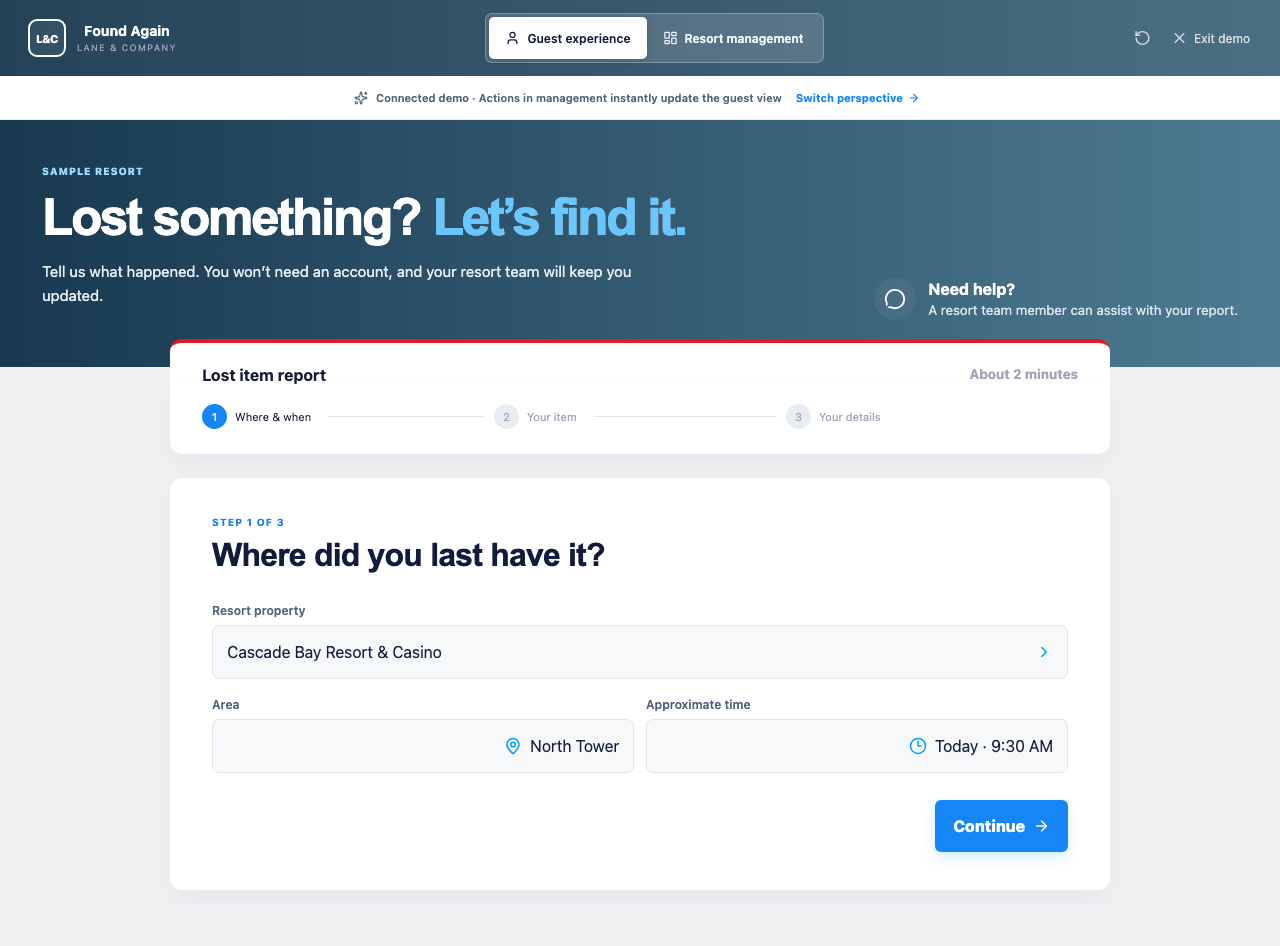
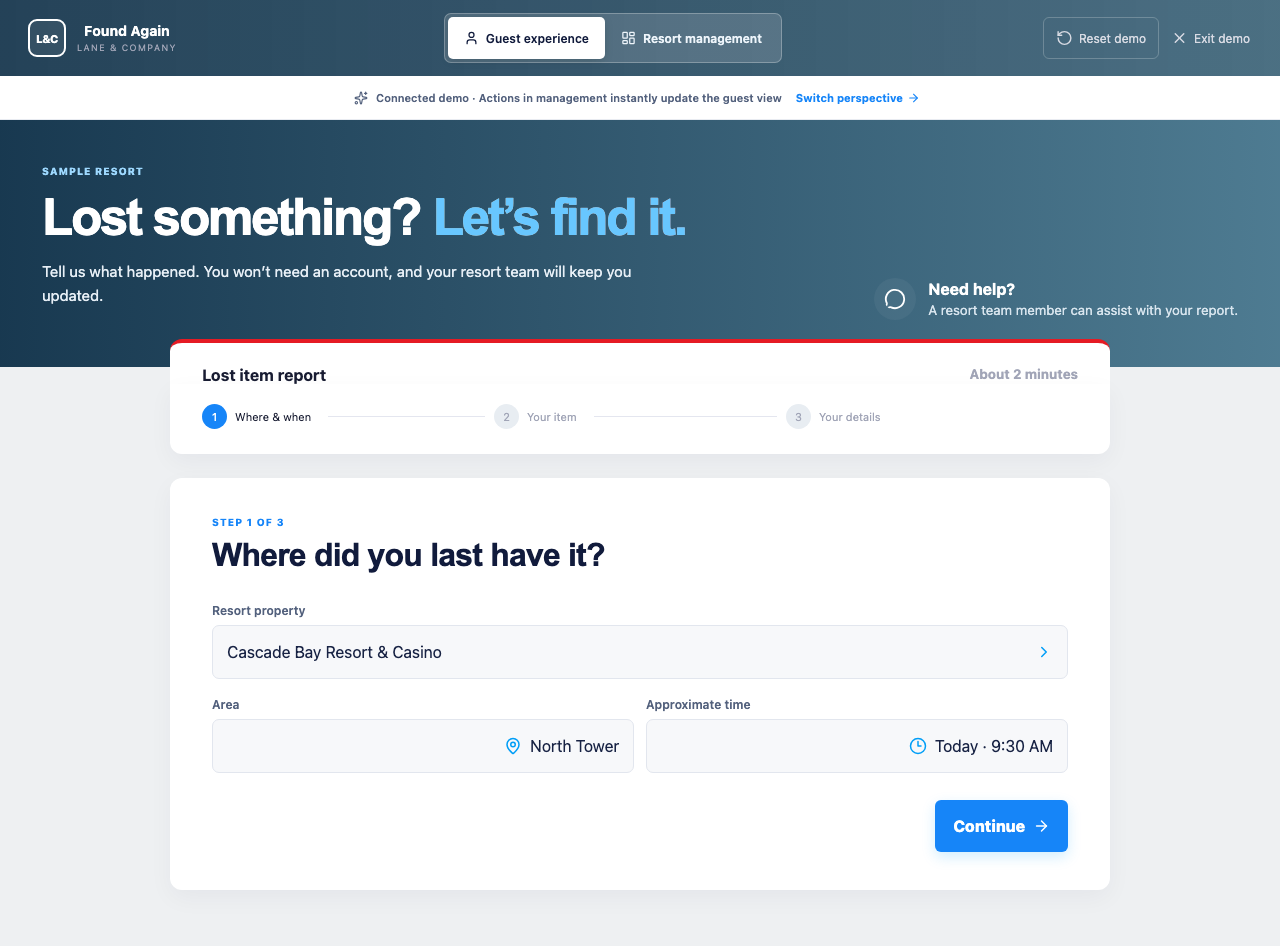
Build inventory and custody demo workflows

Changed region(s): [[0.3438, 0.0, 0.6562, 0.0613], [0.8125, 0.0307, 0.9062, 0.0613]]

diff --git a/src/DemoApp.tsx b/src/DemoApp.tsx
@@ -4,19 +4,23 @@ import {
   ArrowRight,
   Bell,
   Box,
+  Camera,
   Check,
   ChevronRight,
   ClipboardCheck,
   Clock3,
   FileSearch,
+  Filter,
   LayoutDashboard,
   MapPin,
   MessageCircle,
   PackageCheck,
+  Plus,
   RotateCcw,
   Search,
   ShieldCheck,
   Sparkles,
+  Tag,
   Truck,
   User,
   UserCheck,
@@ -55,6 +59,7 @@ export function DemoApp({
     "pickup" | "authorized" | "shipping" | null
   >(null);
   const [toast, setToast] = useState("");
+  const [confirmReset, setConfirmReset] = useState(false);
   useEffect(() => {
     const saved = localStorage.getItem("found-again-demo");
     if (saved)
@@ -85,6 +90,8 @@ export function DemoApp({
     setReturnMethod(null);
     setGuestStep(0);
     localStorage.removeItem("found-again-demo");
+    setRole("guest");
+    setConfirmReset(false);
     notify("Demo reset to the beginning");
   };
   return (
@@ -112,8 +119,9 @@ export function DemoApp({
           </button>
         </div>
         <div className="demoTools">
-          <button onClick={reset} title="Reset demo">
+          <button className="resetButton" onClick={() => setConfirmReset(true)} title="Reset demo">
             <RotateCcw />
+            <span>Reset demo</span>
           </button>
           <button onClick={close}>
             <X />
@@ -156,6 +164,19 @@ export function DemoApp({
       {toast && (
         <div className="demoToast">
           <Check /> {toast}
+        </div>
+      )}
+      {confirmReset && (
+        <div className="demoModalBackdrop" role="presentation" onClick={() => setConfirmReset(false)}>
+          <div className="demoModal resetModal" role="dialog" aria-modal="true" aria-labelledby="reset-title" onClick={(e) => e.stopPropagation()}>
+            <span className="modalIcon"><RotateCcw /></span>
+            <h2 id="reset-title">Reset the connected demo?</h2>
+            <p>This clears the guest report, investigation, return choice, and demo inventory changes so you can replay everything from the beginning.</p>
+            <div className="modalActions">
+              <button className="secondaryButton" onClick={() => setConfirmReset(false)}>Keep exploring</button>
+              <button className="dangerButton" onClick={reset}>Reset demo</button>
+            </div>
+          </div>
         </div>
       )}
     </div>
@@ -407,7 +428,8 @@ function ManagementView({
   returnMethod: string | null;
   advance: (s: Stage, m: string) => void;
 }) {
-  const [view, setView] = useState<"queue" | "case">(
+  type ManagementPage = "queue" | "case" | "inventory" | "custody";
+  const [view, setView] = useState<ManagementPage>(
     stage === "reported" ? "queue" : "case",
   );
   useEffect(() => {
@@ -424,13 +446,13 @@ function ManagementView({
           {[
             ["queue", LayoutDashboard, "Command center"],
             ["case", FileSearch, "Cases"],
-            ["", Box, "Found inventory"],
-            ["", ClipboardCheck, "Custody log"],
+            ["inventory", Box, "Found inventory"],
+            ["custody", ClipboardCheck, "Custody log"],
           ].map(([id, Icon, label]) => (
             <button
               key={label as string}
               className={view === id ? "active" : ""}
-              onClick={() => id && setView(id as "queue" | "case")}
+              onClick={() => id && setView(id as ManagementPage)}
             >
               <Icon /> {label as string}
               {label === "Command center" && <i>3</i>}
@@ -451,7 +473,7 @@ function ManagementView({
             <p className="mini">
               Lost &amp; Found Operations · Thursday, August 20
             </p>
-            <h1>{view === "queue" ? "Command center" : "Case FA-84219"}</h1>
+            <h1>{view === "queue" ? "Command center" : view === "case" ? "Case FA-84219" : view === "inventory" ? "Found inventory" : "Custody log"}</h1>
           </div>
           <div className="search">
             <Search /> Search cases &amp; inventory
@@ -460,16 +482,99 @@ function ManagementView({
         </div>
         {view === "queue" ? (
           <Queue stage={stage} open={() => setView("case")} />
-        ) : (
+        ) : view === "case" ? (
           <CaseDetail
             stage={stage}
             returnMethod={returnMethod}
             advance={advance}
           />
+        ) : view === "inventory" ? (
+          <FoundInventory stage={stage} />
+        ) : (
+          <CustodyLog stage={stage} />
         )}
       </main>
     </div>
   );
+}
+
+const inventorySeed = [
+  { id: "FI-20847", icon: "🕶", name: "Round sunglasses, tortoise arms", category: "Eyewear", found: "Room 1428 · North Tower", storage: "Vault B · Bin 17", time: "Today · 10:42 AM", status: "Suggested match" },
+  { id: "FI-20846", icon: "📱", name: "Black smartphone with clear case", category: "Electronics", found: "Grand Ballroom", storage: "Vault A · Drawer 4", time: "Today · 9:18 AM", status: "Unmatched" },
+  { id: "FI-20831", icon: "👜", name: "Coral evening bag", category: "Bags", found: "Luna Restaurant", storage: "Vault B · Bin 9", time: "Yesterday · 11:06 PM", status: "Awaiting owner" },
+  { id: "FI-20822", icon: "💳", name: "Washington driver license", category: "Identification", found: "Casino floor · Zone C", storage: "Security safe · ID 6", time: "Yesterday · 8:31 PM", status: "Owner contacted" },
+  { id: "FI-20798", icon: "⌚", name: "Silver fitness watch", category: "Electronics", found: "Pool cabana 12", storage: "Vault A · Drawer 2", time: "Aug 18 · 4:14 PM", status: "Unmatched" },
+];
+
+function FoundInventory({ stage }: { stage: Stage }) {
+  const [query, setQuery] = useState("");
+  const [status, setStatus] = useState("All statuses");
+  const [selected, setSelected] = useState(inventorySeed[0]);
+  const [showIntake, setShowIntake] = useState(false);
+  const [saved, setSaved] = useState(false);
+  const items = inventorySeed.filter((item) =>
+    `${item.id} ${item.name} ${item.category} ${item.found}`.toLowerCase().includes(query.toLowerCase()) &&
+    (status === "All statuses" || item.status === status),
+  );
+  const selectedStatus = selected.id === "FI-20847" && stage !== "reported" ? stageLabels[stage] : selected.status;
+  return (
+    <div className="inventoryPage">
+      <div className="pageActions">
+        <div><h2>Everything found, secured, and searchable</h2><p>Inventory across hotel, casino, restaurants, events, and resort grounds.</p></div>
+        <button className="mgmtPrimary compact" onClick={() => setShowIntake(true)}><Plus /> Add found item</button>
+      </div>
+      <div className="inventoryMetrics">
+        <article><Box /><span><strong>147</strong><small>Items in custody</small></span></article>
+        <article><Sparkles /><span><strong>8</strong><small>Suggested matches</small></span></article>
+        <article><Clock3 /><span><strong>12</strong><small>Aging this week</small></span></article>
+      </div>
+      <div className="inventoryLayout">
+        <section className="inventoryTableCard">
+          <div className="tableTools">
+            <label><Search /><input aria-label="Search found inventory" value={query} onChange={(e) => setQuery(e.target.value)} placeholder="Search item, ID, or location" /></label>
+            <label className="filterSelect"><Filter /><select aria-label="Filter inventory status" value={status} onChange={(e) => setStatus(e.target.value)}><option>All statuses</option><option>Unmatched</option><option>Suggested match</option><option>Awaiting owner</option><option>Owner contacted</option></select></label>
+          </div>
+          <div className="inventoryTableHead"><span>Found item</span><span>Found / storage</span><span>Status</span></div>
+          <div className="inventoryRows">
+            {items.map((item) => (
+              <button key={item.id} className={selected.id === item.id ? "selected" : ""} onClick={() => setSelected(item)}>
+                <span className="inventoryIdentity"><i>{item.icon}</i><span><b>{item.name}</b><small>{item.id} · {item.category}</small></span></span>
+                <span className="inventoryLocation"><b>{item.found}</b><small>{item.storage} · {item.time}</small></span>
+                <span className={`inventoryStatus ${item.status.toLowerCase().replaceAll(" ", "-")}`}>{item.id === "FI-20847" && stage !== "reported" ? stageLabels[stage] : item.status}</span>
+                <ChevronRight />
+              </button>
+            ))}
+            {!items.length && <p className="emptyState">No inventory matches those filters.</p>}
+          </div>
+        </section>
+        <aside className="inventoryDetail">
+          <div className="detailPhoto"><span>{selected.icon}</span><small>Item photo · 1 of 2</small></div>
+          <p className="mini">{selected.id} · {selected.category}</p>
+          <h3>{selected.name}</h3>
+          <span className={`inventoryStatus ${selectedStatus.toLowerCase().replaceAll(" ", "-")}`}>{selectedStatus}</span>
+          <dl><div><dt>Found</dt><dd>{selected.found}<small>{selected.time}</small></dd></div><div><dt>Secured in</dt><dd>{selected.storage}</dd></div><div><dt>Logged by</dt><dd>Jordan Kim · EVS</dd></div></dl>
+          {selected.id === "FI-20847" && <div className="matchCallout"><Sparkles /><span><b>92% match with FA-84219</b><small>Exact room, time proximity, item details, and private ownership clue.</small></span></div>}
+          <button className="secondaryButton full"><Tag /> Print custody label</button>
+        </aside>
+      </div>
+      {showIntake && <div className="demoModalBackdrop"><div className="demoModal intakeModal" role="dialog" aria-modal="true" aria-labelledby="intake-title"><div className="modalHeader"><div><p className="mini">Mobile-ready intake</p><h2 id="intake-title">Add a found item</h2></div><button aria-label="Close intake" onClick={() => {setShowIntake(false);setSaved(false)}}><X /></button></div>{saved ? <div className="intakeSuccess"><span><Check /></span><h3>Item FI-20848 logged</h3><p>A custody label was created and Security was notified to secure the item in Vault B.</p><button className="mgmtPrimary compact" onClick={() => {setShowIntake(false);setSaved(false)}}>View inventory</button></div> : <><button className="cameraCapture"><Camera /><b>Take item photos</b><small>Use this phone’s camera or upload images</small></button><div className="intakeGrid"><label>Item category<div className="demoInput">Electronics</div></label><label>Found location<div className="demoInput">Casino floor · Zone B</div></label></div><label>Description<div className="demoInput">White wireless earbuds in charging case</div></label><label>Secure storage<div className="demoInput">Vault B · Intake shelf</div></label><div className="modalActions"><button className="secondaryButton" onClick={() => setShowIntake(false)}>Cancel</button><button className="mgmtPrimary compact" onClick={() => setSaved(true)}>Save & create label <ArrowRight /></button></div></>}</div></div>}
+    </div>
+  );
+}
+
+function CustodyLog({ stage }: { stage: Stage }) {
+  const [item, setItem] = useState("FI-20847");
+  const events = [
+    { time: stage === "reunited" ? "Today · 12:24 PM" : "Pending", title: stage === "reunited" ? "Released to carrier" : "Return handoff pending", person: stage === "reunited" ? "Alex Diaz → UPS 1Z84•••219" : "Awaiting guest return selection", place: "Security desk", done: stage === "reunited" },
+    { time: "Today · 10:49 AM", title: "Secured in controlled storage", person: "Alex Diaz · Security Manager", place: "Vault B · Bin 17", done: true },
+    { time: "Today · 10:44 AM", title: "Transferred to Security", person: "Jordan Kim → Alex Diaz", place: "North Tower service desk", done: true },
+    { time: "Today · 10:42 AM", title: "Found and inventoried", person: "Jordan Kim · EVS", place: "Room 1428 · Nightstand", done: true },
+  ];
+  return <div className="custodyPage">
+    <div className="pageActions"><div><h2>Every handoff has a receipt</h2><p>A tamper-evident audit trail from discovery through verified return or disposition.</p></div><button className="secondaryButton"><ShieldCheck /> Export audit report</button></div>
+    <div className="custodyToolbar"><label><Search /><input aria-label="Search custody log" placeholder="Search item, employee, location, or receipt" /></label><label><Filter /><select aria-label="Choose custody item" value={item} onChange={(e) => setItem(e.target.value)}><option value="FI-20847">FI-20847 · Round sunglasses</option><option value="FI-20846">FI-20846 · Black smartphone</option><option value="FI-20831">FI-20831 · Coral evening bag</option></select></label></div>
+    {item === "FI-20847" ? <div className="custodyLayout"><section className="custodyTimelineCard"><div className="custodyItemHead"><span>🕶</span><div><p className="mini">FI-20847 · Linked case FA-84219</p><h3>Round sunglasses, tortoise arms</h3><small>Current custodian: Alex Diaz · Security</small></div><span className="verifiedBadge"><ShieldCheck /> Verified trail</span></div><div className="auditTimeline">{events.map((event, index) => <article key={event.title} className={event.done ? "done" : "pending"}><i>{event.done ? <Check /> : <Clock3 />}</i><div><small>{event.time}</small><h4>{event.title}</h4><p>{event.person}</p><span><MapPin /> {event.place}</span></div>{event.done && index < 3 && <b className="receipt">Receipt #{8473-index}</b>}</article>)}</div></section><aside className="auditSummary"><p className="mini">Audit summary</p><h3>Custody integrity</h3><div className="integrityScore"><strong>100%</strong><span>All required handoffs signed</span></div><dl><div><dt>First logged</dt><dd>10:42 AM</dd></div><div><dt>Handoffs</dt><dd>{stage === "reunited" ? "3" : "2"}</dd></div><div><dt>Storage</dt><dd>Vault B · Bin 17</dd></div><div><dt>Exceptions</dt><dd className="successText">None</dd></div></dl><button className="secondaryButton full">View signed receipts</button></aside></div> : <div className="alternateAudit"><ShieldCheck /><h3>{item} custody trail</h3><p>This demo record is secured with a complete, signed chain of custody.</p><button className="secondaryButton" onClick={() => setItem("FI-20847")}>Return to connected case</button></div>}
+  </div>;
 }
 
 function Queue({ stage, open }: { stage: Stage; open: () => void }) {

diff --git a/src/demo.css b/src/demo.css
@@ -31,3 +31,11 @@
 
 @media(max-width:850px){.guestAside{min-height:auto;padding:34px 22px 55px}.guestAside h1{font-size:40px}.guestAside h1 em{margin-left:0}.guestHelp{display:none}.guestWorkspace{margin-top:-22px;padding:0 14px}.wizardHead{padding:20px 20px 0}.wizardSteps{padding:17px 20px 22px}.formCard,.tracker{padding:27px 22px}.managementTop{padding:23px 20px}.managementMain{padding-top:22px}.metrics article{padding:17px}.sideNav{background-position:center}}
 @media(max-width:500px){.demoBar{height:68px}.demoNotice{height:40px}.guestDemo{min-height:calc(100vh - 108px)}.guestAside{padding-top:30px}.guestAside h1{font-size:34px}.guestAside>p{font-size:13px}.formCard h2,.tracker h2{font-size:27px}.managementTop{border-top-width:3px}.metrics{gap:10px}.metrics strong{font-size:25px}}
+
+/* Connected management modules */
+.resetButton{border:1px solid #ffffff38!important;padding:8px 12px!important}.resetButton span{display:inline!important}.demoModalBackdrop{position:fixed;inset:0;z-index:100;background:#11182791;display:grid;place-items:center;padding:20px;backdrop-filter:blur(3px)}.demoModal{width:min(520px,100%);max-height:calc(100vh - 40px);overflow:auto;background:#fff;border-radius:13px;padding:30px;box-shadow:0 24px 70px #11182740}.resetModal{text-align:center}.modalIcon{width:54px;height:54px;border-radius:50%;background:#fff1f3;color:#f1416c;display:grid;place-items:center;margin:0 auto}.modalIcon svg{width:24px}.demoModal h2{font-size:23px;margin:17px 0 8px;color:#111b3c}.demoModal>p{color:#68748c;line-height:1.55}.modalActions{display:flex;justify-content:flex-end;gap:10px;margin-top:24px}.secondaryButton,.dangerButton{border:1px solid #dfe3ea;background:#fff;color:#3f4a64;border-radius:7px;padding:10px 14px;font-weight:700;display:inline-flex;align-items:center;justify-content:center;gap:7px}.secondaryButton svg,.dangerButton svg{width:16px}.dangerButton{border-color:#f1416c;background:#f1416c;color:#fff}.secondaryButton.full{width:100%}
+.pageActions{display:flex;justify-content:space-between;align-items:center;margin-bottom:18px}.pageActions h2{font-size:20px;margin:0;color:#111b3c}.pageActions p{font-size:12px;color:#68748c;margin:6px 0 0}.mgmtPrimary.compact{margin:0;padding:11px 15px}.inventoryMetrics{display:grid;grid-template-columns:repeat(3,1fr);gap:14px;margin-bottom:18px}.inventoryMetrics article{background:#fff;border:1px dashed #d9dee8;border-radius:10px;padding:17px;display:flex;align-items:center;gap:14px}.inventoryMetrics article>svg{width:37px;height:37px;padding:9px;border-radius:8px;background:#edf6ff;color:#1685f8}.inventoryMetrics span{display:flex;flex-direction:column}.inventoryMetrics strong{font-size:22px;color:#111b3c}.inventoryMetrics small{color:#68748c;margin-top:2px}.inventoryLayout{display:grid;grid-template-columns:minmax(0,1fr) 325px;gap:18px}.inventoryTableCard,.inventoryDetail,.custodyTimelineCard,.auditSummary,.custodyToolbar,.alternateAudit{background:#fff;border-radius:11px;box-shadow:0 5px 18px #111b3c0a}.tableTools,.custodyToolbar{padding:18px;display:flex;gap:10px;border-bottom:1px solid #eff2f5}.tableTools label,.custodyToolbar label{height:42px;display:flex;align-items:center;gap:8px;background:#f7f8fa;border:1px solid #e4e8ef;border-radius:7px;padding:0 12px}.tableTools label:first-child,.custodyToolbar label:first-child{flex:1}.tableTools svg,.custodyToolbar svg{width:16px;color:#1685f8}.tableTools input,.custodyToolbar input,.tableTools select,.custodyToolbar select{border:0;outline:0;background:transparent;color:#3f4a64;width:100%;font:inherit}.filterSelect{min-width:175px}.inventoryTableHead{display:grid;grid-template-columns:1.35fr 1fr 150px;padding:12px 20px;background:#fafbfc;color:#7e8299;text-transform:uppercase;letter-spacing:.07em;font-size:9px;font-weight:800}.inventoryRows>button{width:100%;border:0;border-top:1px solid #eff2f5;background:#fff;padding:15px 18px;display:grid;grid-template-columns:1.35fr 1fr 150px 18px;align-items:center;text-align:left;color:#172344}.inventoryRows>button:hover,.inventoryRows>button.selected{background:#f0f8ff}.inventoryRows>button.selected{box-shadow:inset 3px 0 #1685f8}.inventoryRows>button>svg{width:16px;color:#9ba4b5}.inventoryIdentity{display:flex;align-items:center;gap:11px}.inventoryIdentity>i{width:40px;height:40px;border-radius:8px;background:#f5f8fa;display:grid;place-items:center;font-size:22px;font-style:normal}.inventoryIdentity>span,.inventoryLocation{display:flex;flex-direction:column}.inventoryIdentity b,.inventoryLocation b{font-size:12px}.inventoryIdentity small,.inventoryLocation small{font-size:10px;color:#7e8299;margin-top:4px}.inventoryStatus{justify-self:start;display:inline-flex;border-radius:6px;padding:7px 9px;background:#f1f1f4;color:#68748c;font-size:10px;font-weight:700}.inventoryStatus.suggested-match,.inventoryStatus.item-matched,.inventoryStatus.return-arranged,.inventoryStatus.reunited{background:#e8fff3;color:#168b5c}.inventoryStatus.owner-contacted{background:#eef6ff;color:#1685f8}.inventoryStatus.awaiting-owner,.inventoryStatus.investigation-underway{background:#fff8dd;color:#947400}.emptyState{text-align:center;color:#7e8299;padding:35px}.inventoryDetail{padding:20px}.detailPhoto{height:175px;border-radius:9px;background:linear-gradient(145deg,#eef3f8,#f9fbfc);display:grid;place-items:center;position:relative;margin-bottom:20px}.detailPhoto>span{font-size:67px}.detailPhoto small{position:absolute;left:12px;bottom:10px;background:#fff;padding:5px 8px;border-radius:5px;color:#68748c}.inventoryDetail h3{font-size:18px;margin:6px 0 12px}.inventoryDetail dl,.auditSummary dl{margin:20px 0}.inventoryDetail dl>div,.auditSummary dl>div{display:grid;grid-template-columns:90px 1fr;padding:10px 0;border-top:1px solid #eff2f5}.inventoryDetail dt,.auditSummary dt{font-size:10px;color:#7e8299}.inventoryDetail dd,.auditSummary dd{margin:0;font-size:11px;font-weight:700;color:#27314d}.inventoryDetail dd small{display:block;font-weight:400;color:#7e8299;margin-top:3px}.matchCallout{display:flex;gap:10px;background:#edf6ff;border:1px dashed #1685f866;border-radius:8px;padding:12px;margin:16px 0}.matchCallout>svg{width:18px;color:#1685f8;flex:none}.matchCallout span{display:flex;flex-direction:column;font-size:11px}.matchCallout small{color:#68748c;line-height:1.4;margin-top:4px}.modalHeader{display:flex;align-items:start;justify-content:space-between}.modalHeader h2{margin:4px 0}.modalHeader>button{border:0;background:#f5f8fa;border-radius:7px;padding:8px}.modalHeader svg{width:17px}.cameraCapture{width:100%;border:1px dashed #1685f8;background:#f0f8ff;color:#1685f8;border-radius:9px;padding:24px;margin:22px 0;display:flex;flex-direction:column;align-items:center;gap:5px}.cameraCapture svg{width:28px}.cameraCapture small{color:#68748c}.intakeModal>label,.intakeGrid label{display:block;font-size:11px;font-weight:700;color:#53617d;margin-top:14px}.intakeGrid{display:grid;grid-template-columns:1fr 1fr;gap:12px}.intakeSuccess{text-align:center;padding:24px 5px}.intakeSuccess>span{width:58px;height:58px;border-radius:50%;background:#e8fff3;color:#50cd89;display:grid;place-items:center;margin:auto}.intakeSuccess h3{font-size:20px}.intakeSuccess p{color:#68748c;line-height:1.55}.intakeSuccess button{margin:20px auto 0}
+.custodyToolbar{border:0;margin-bottom:18px}.custodyLayout{display:grid;grid-template-columns:minmax(0,1fr) 310px;gap:18px}.custodyItemHead{display:flex;align-items:center;gap:14px;padding:22px;border-bottom:1px solid #eff2f5}.custodyItemHead>span:first-child{width:50px;height:50px;border-radius:9px;background:#f5f8fa;display:grid;place-items:center;font-size:27px}.custodyItemHead h3{margin:4px 0;font-size:17px}.custodyItemHead small{color:#68748c}.verifiedBadge{margin-left:auto;display:flex;align-items:center;gap:6px;color:#168b5c;background:#e8fff3;padding:7px 9px;border-radius:6px;font-size:10px;font-weight:700}.verifiedBadge svg{width:14px}.auditTimeline{padding:12px 24px 25px}.auditTimeline article{display:grid;grid-template-columns:34px 1fr auto;gap:12px;position:relative;padding:18px 0}.auditTimeline article:not(:last-child):before{content:"";position:absolute;left:16px;top:51px;bottom:-15px;width:2px;background:#e4e8ef}.auditTimeline article>i{width:34px;height:34px;border-radius:50%;background:#e8fff3;color:#50cd89;display:grid;place-items:center;font-style:normal;z-index:1}.auditTimeline article.pending>i{background:#fff8dd;color:#b58b00}.auditTimeline article svg{width:16px}.auditTimeline article small{font-size:10px;color:#7e8299}.auditTimeline h4{font-size:13px;margin:4px 0}.auditTimeline p{font-size:11px;margin:0;color:#53617d}.auditTimeline article span{display:flex;align-items:center;gap:4px;color:#7e8299;font-size:10px;margin-top:5px}.auditTimeline article span svg{width:12px}.receipt{align-self:center;background:#f5f8fa;color:#68748c;border-radius:5px;padding:6px 8px;font-size:9px}.auditSummary{padding:22px;height:max-content}.auditSummary h3{margin:6px 0 17px}.integrityScore{background:#e8fff3;border-radius:9px;padding:16px;display:flex;flex-direction:column}.integrityScore strong{font-size:29px;color:#168b5c}.integrityScore span{font-size:10px;color:#537063}.successText{color:#168b5c!important}.alternateAudit{text-align:center;padding:60px 20px}.alternateAudit>svg{width:43px;height:43px;color:#50cd89}.alternateAudit p{color:#68748c}.alternateAudit button{margin-top:15px}
+@media(max-width:1000px){.inventoryLayout,.custodyLayout{grid-template-columns:1fr}.inventoryDetail{display:grid;grid-template-columns:180px 1fr;gap:0 20px}.detailPhoto{grid-row:1/7}.inventoryDetail dl{margin-top:10px}.inventoryDetail .full,.inventoryDetail .matchCallout{grid-column:2}.auditSummary{display:grid;grid-template-columns:1fr 1fr;gap:0 20px}.auditSummary .mini,.auditSummary h3{grid-column:1/-1}}
+@media(max-width:750px){.resetButton span{display:none!important}.pageActions{align-items:flex-start;gap:12px}.inventoryMetrics{grid-template-columns:1fr}.inventoryTableHead{display:none}.inventoryRows>button{grid-template-columns:1fr 110px 18px}.inventoryLocation{display:none}.tableTools,.custodyToolbar{flex-direction:column}.filterSelect{min-width:0}.inventoryDetail{display:block}.custodyItemHead{align-items:flex-start}.verifiedBadge{font-size:0}.auditSummary{display:block}.receipt{display:none}.intakeGrid{grid-template-columns:1fr}}
+@media(max-width:500px){.pageActions{flex-direction:column}.pageActions .mgmtPrimary,.pageActions .secondaryButton{width:100%}.inventoryRows>button{grid-template-columns:1fr 18px}.inventoryRows .inventoryStatus{display:none}.demoModal{padding:22px}.modalActions{flex-direction:column-reverse}.modalActions button{width:100%}.custodyItemHead{padding:16px}.custodyItemHead>span:first-child{display:none}.auditTimeline{padding:8px 16px 20px}}

diff --git a/tests/demo.spec.ts b/tests/demo.spec.ts
@@ -20,3 +20,40 @@ test('guest and management share one case lifecycle',async({page})=>{
   await page.getByRole('button',{name:/guest experience/i}).click();
   await expect(page.getByText('Reunited',{exact:true}).first()).toBeVisible();
 });
+
+test('demo reset clears progress and returns to guest report',async({page})=>{
+  await page.goto('/');
+  await page.getByRole('button',{name:/try the guest demo/i}).click();
+  await page.getByRole('button',{name:/continue/i}).click();
+  await page.getByRole('button',{name:/reset demo/i}).click();
+  await expect(page.getByRole('heading',{name:/reset the connected demo/i})).toBeVisible();
+  await page.getByRole('dialog').getByRole('button',{name:'Reset demo'}).click();
+  await expect(page.getByText('Step 1 of 3')).toBeVisible();
+  await expect(page.getByRole('heading',{name:/where did you last have it/i})).toBeVisible();
+});
+
+test('management inventory supports search detail and mobile intake',async({page})=>{
+  await page.goto('/');
+  await page.getByRole('button',{name:/try management demo/i}).click();
+  await page.getByRole('button',{name:/found inventory/i}).click();
+  await expect(page.getByRole('heading',{name:/everything found, secured, and searchable/i})).toBeVisible();
+  await page.getByLabel('Search found inventory').fill('fitness watch');
+  await expect(page.getByText('Silver fitness watch')).toBeVisible();
+  await page.getByRole('button',{name:/add found item/i}).click();
+  await expect(page.getByRole('heading',{name:/add a found item/i})).toBeVisible();
+  await page.getByRole('button',{name:/save & create label/i}).click();
+  await expect(page.getByRole('heading',{name:/item FI-20848 logged/i})).toBeVisible();
+});
+
+test('custody log exposes a verified item timeline',async({page})=>{
+  await page.goto('/');
+  await page.getByRole('button',{name:/try management demo/i}).click();
+  await page.getByRole('button',{name:/custody log/i}).click();
+  await expect(page.getByRole('heading',{name:/every handoff has a receipt/i})).toBeVisible();
+  await expect(page.getByText('Found and inventoried')).toBeVisible();
+  await expect(page.getByText('Secured in controlled storage')).toBeVisible();
+  await page.getByLabel('Choose custody item').selectOption('FI-20846');
+  await expect(page.getByRole('heading',{name:/FI-20846 custody trail/i})).toBeVisible();
+  await page.getByRole('button',{name:/return to connected case/i}).click();
+  await expect(page.getByText('FI-20847 · Linked case FA-84219')).toBeVisible();
+});

diff --git a/tests/visual.spec.ts b/tests/visual.spec.ts
@@ -13,5 +13,12 @@ test("demo remains readable in a dark OS color scheme", async ({ page }) => {
   await page.getByRole("button", { name: /resort management/i }).click();
   await expect(page.getByRole("heading", { name: /command center/i })).toBeVisible();
   await page.screenshot({ path: "screenshots/demo-management-desktop.png", fullPage: true });
+  await page.getByRole("button", { name: /found inventory/i }).click();
+  await page.screenshot({ path: "screenshots/demo-inventory-desktop.png", fullPage: true });
+  await page.getByRole("button", { name: /custody log/i }).click();
+  await page.screenshot({ path: "screenshots/demo-custody-desktop.png", fullPage: true });
+  await page.setViewportSize({ width: 390, height: 844 });
+  await page.getByRole("button", { name: /found inventory/i }).click();
+  await page.screenshot({ path: "screenshots/demo-inventory-mobile.png", fullPage: true });
   expect(consoleErrors).toEqual([]);
 });
